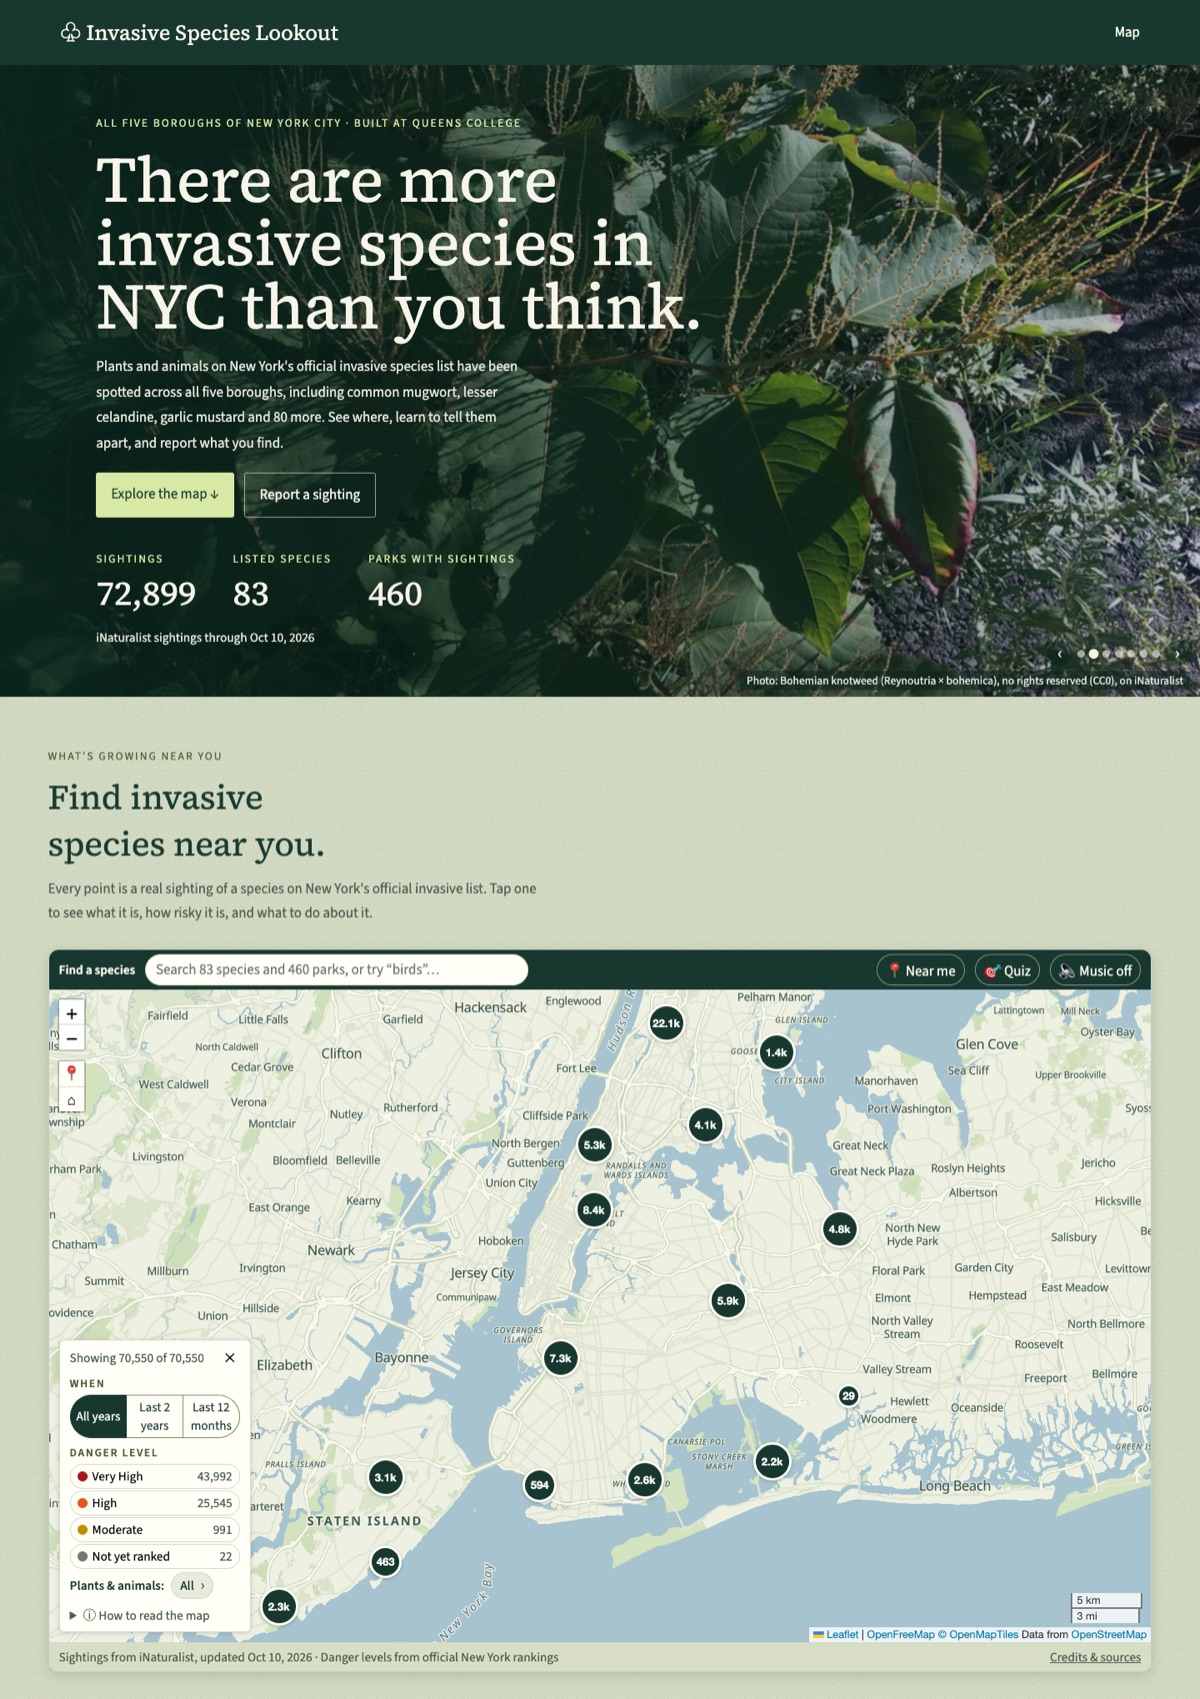
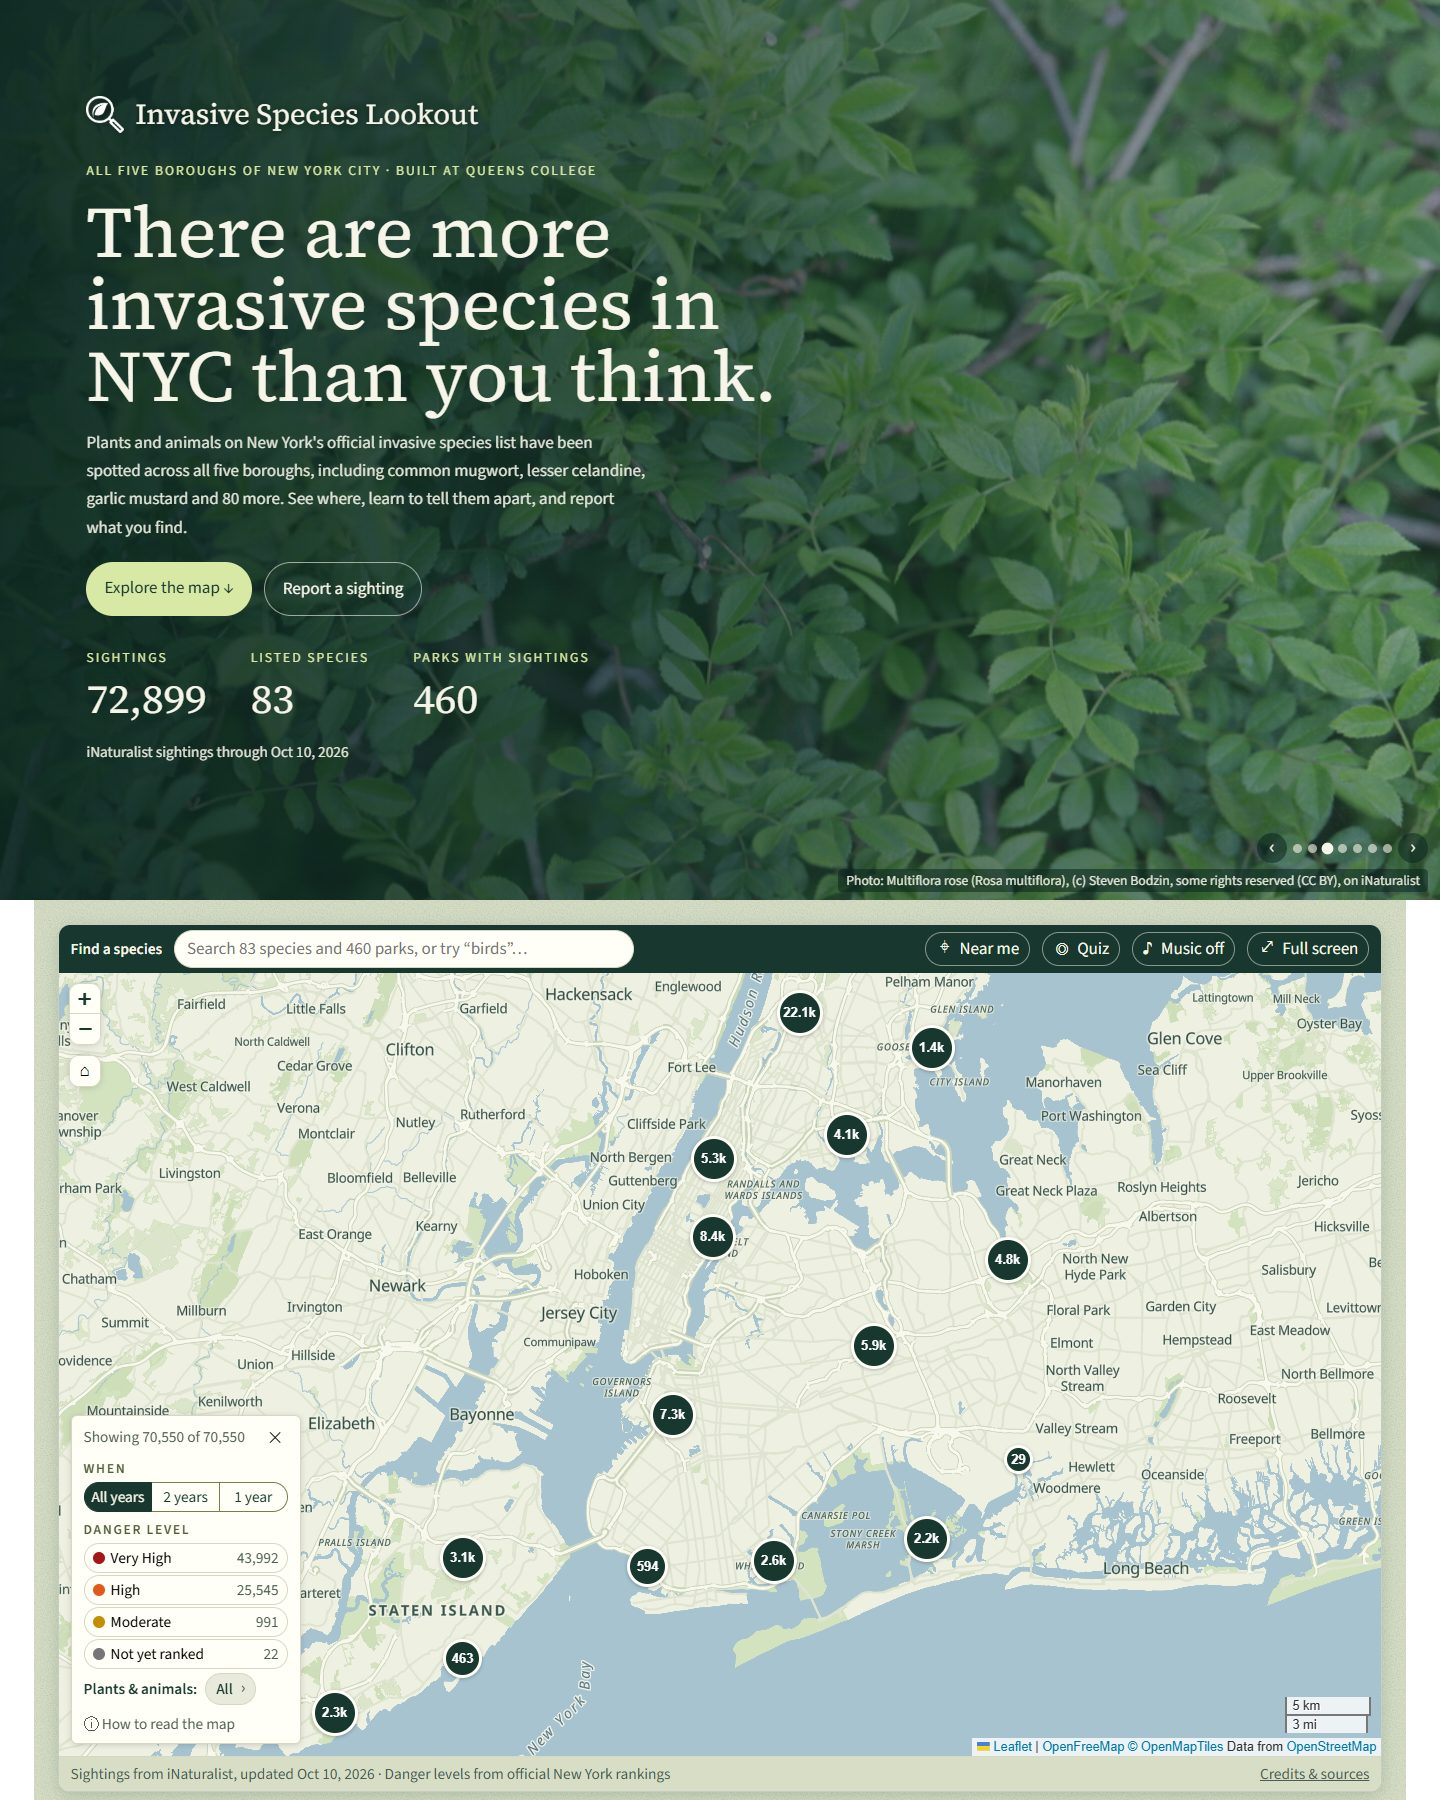
screenshot update

diff --git a/README.md b/README.md
@@ -6,7 +6,7 @@ Every fact has links to the source, and danger levels are from official rankings
 
 **Try it live: <https://invasive.surf>** (or [run it on your own computer](#run-it-on-your-own-computer)).
 
-![The home page: a welcome banner over a credited iNaturalist photo with totals (72,899 sightings, 83 listed species, 460 parks), then the map of all five boroughs with numbered sighting bubbles and the danger-level filter](docs/screenshot.jpg)
+![The home page of invasive.surf: a full-screen banner over a credited iNaturalist photo of multiflora rose, with the headline "There are more invasive species in NYC than you think" and totals (72,899 sightings, 83 listed species, 460 parks); below it, the map of all five boroughs with numbered sighting bubbles, a toolbar with search, Near me, Quiz, Music and Full screen, and the danger-level filter](docs/screenshot.jpg)
 
 ## What you can do
 
